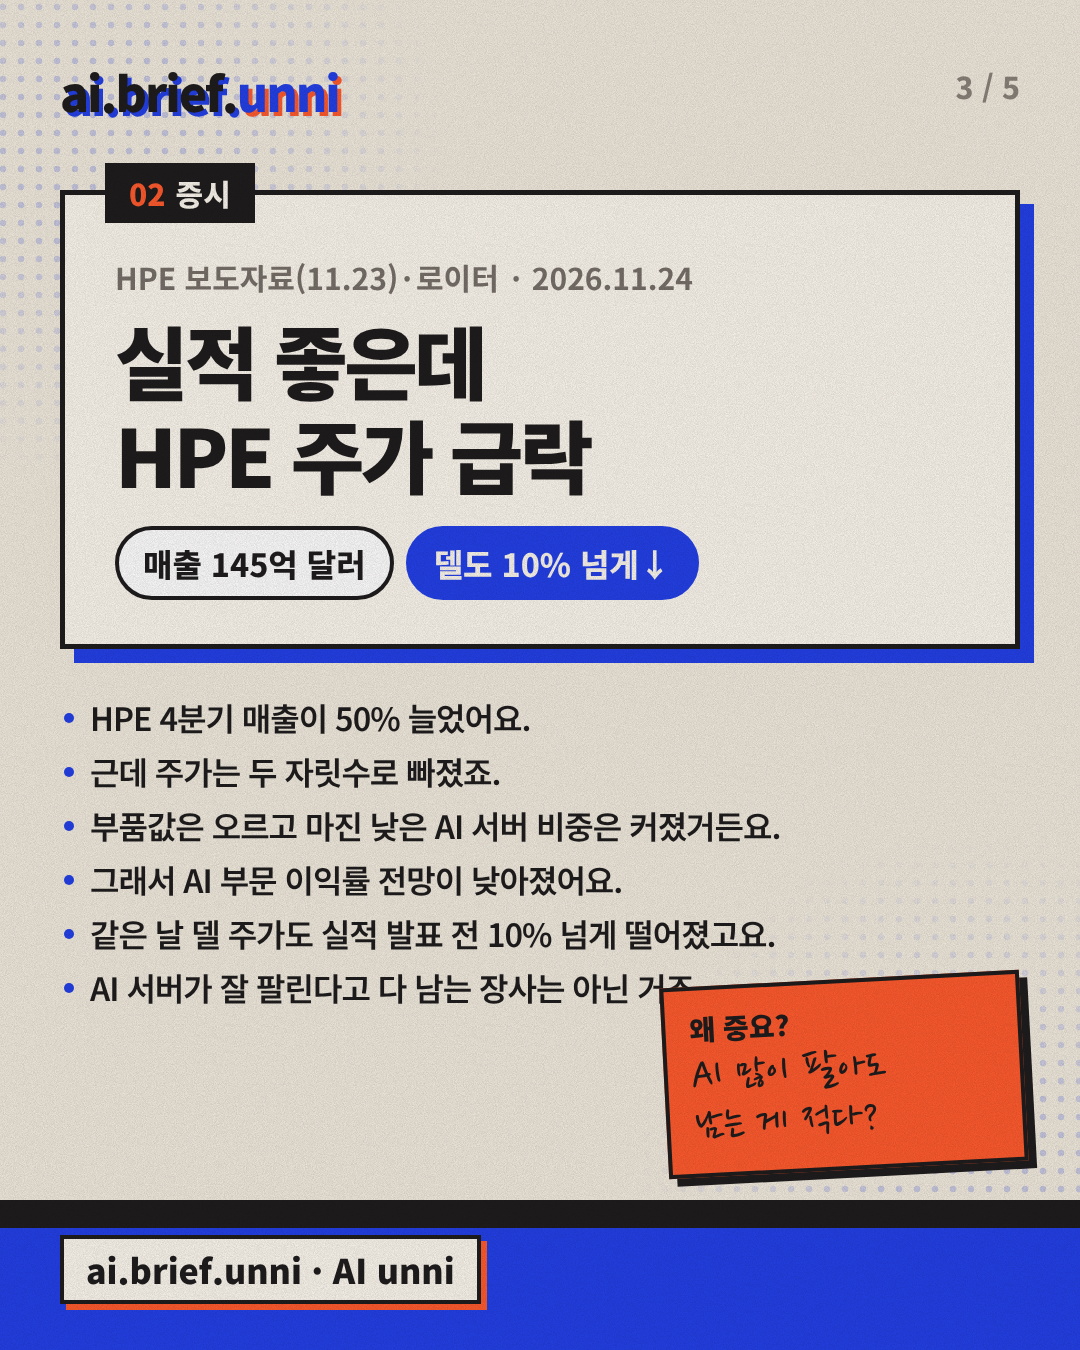
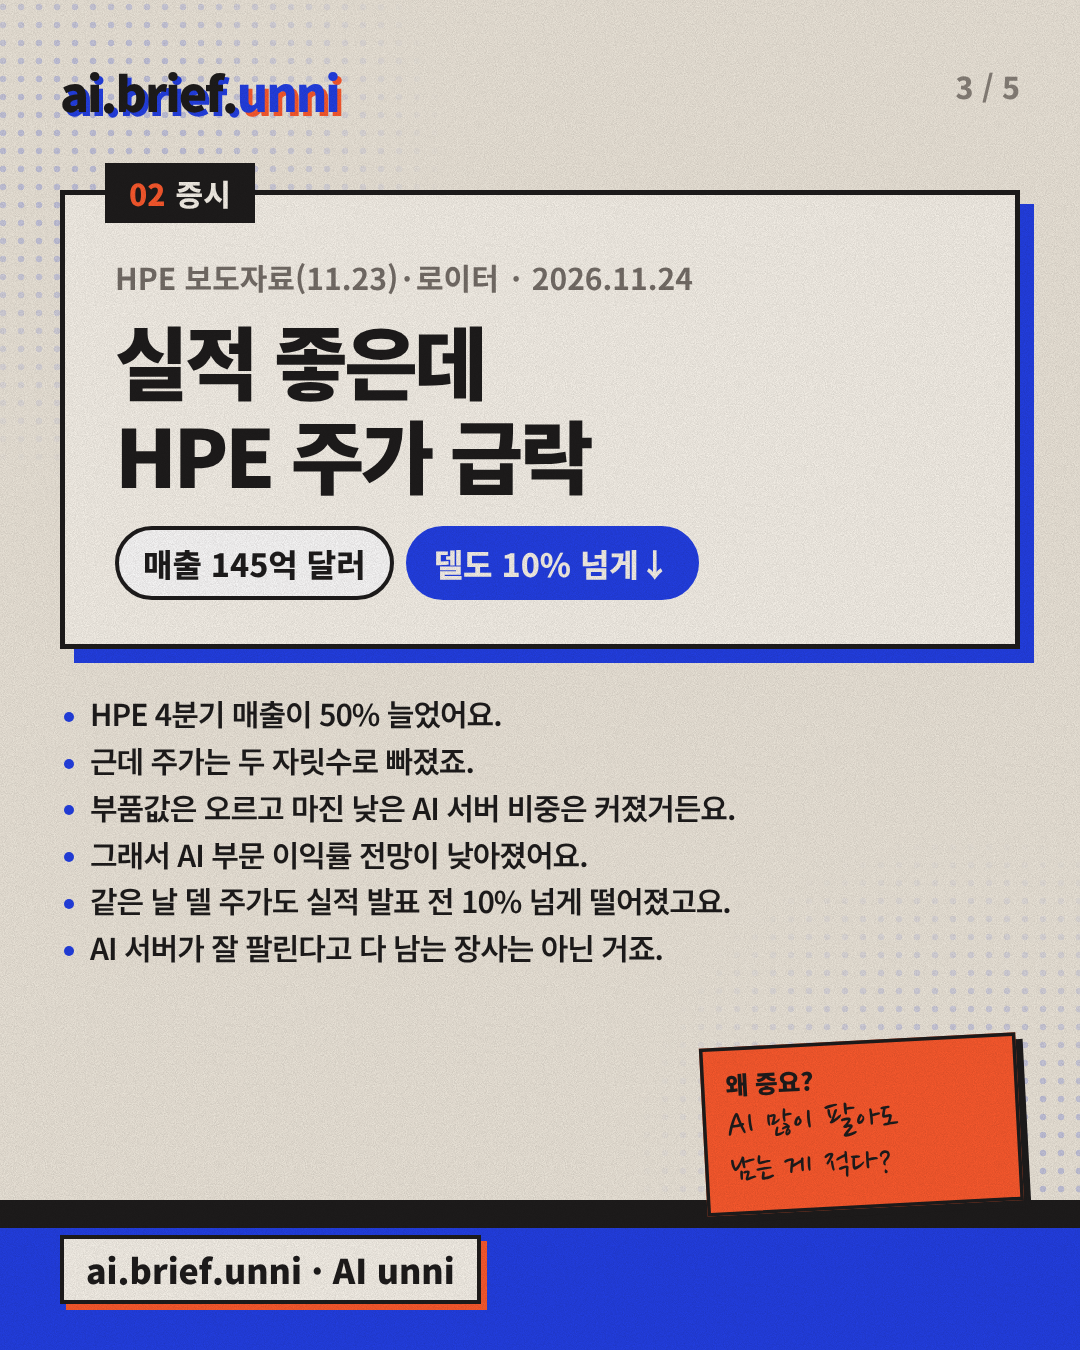
캐러셀: 본문·메모 겹침, CTA 버튼 가림 수정 [skip ci]
Claude-Session: https://claude.ai/code/session_019nZYiFyLASBmob3Xbrx6kJ

Changed region(s): [[0.0611, 0.4978, 0.9778, 0.9022]]

diff --git a/templates/carousel.html b/templates/carousel.html
@@ -128,8 +128,12 @@ window.build = async s => {
     const why = it.why ? el("why", `<small>왜 중요?</small><p>${esc(it.why).replace(/\n/g, "<br>")}</p>`, { bottom: "180px", right: "56px" }) : null;
     if (why) sl.appendChild(why);
     const limit = (why ? why.getBoundingClientRect().top : 1350 - 190) - sl.getBoundingClientRect().top - 24;
+    const over = () => body.getBoundingClientRect().bottom - sl.getBoundingClientRect().top > limit;
     let fs = 42;
-    while (fs > 32 && body.getBoundingClientRect().bottom - sl.getBoundingClientRect().top > limit) { fs -= 2; body.style.fontSize = fs + "px"; }
+    while (fs > 30 && over()) { fs -= 2; body.style.fontSize = fs + "px"; }
+    if (over()) body.style.lineHeight = "1.36";
+    // 그래도 넘치면 메모를 아래쪽 띠 위로 내려 본문과 겹치지 않게
+    if (why && over()) { why.style.bottom = "150px"; why.style.transform = "rotate(-3deg) scale(.88)"; why.style.transformOrigin = "right bottom"; }
   });
 
   // 마지막. 공유 유도
@@ -140,7 +144,11 @@ window.build = async s => {
   const icon = s.cta_icon === "follow"
     ? `<svg width="54" height="54" viewBox="0 0 24 24" fill="none" stroke="#FBF7EE" stroke-width="2.6" stroke-linecap="round"><circle cx="9" cy="8" r="4"/><path d="M2 21c0-4 3-6.5 7-6.5s7 2.5 7 6.5M19 8v6M16 11h6"/></svg>`
     : `<svg width="54" height="54" viewBox="0 0 24 24" fill="#FBF7EE"><path d="M2 11 22 2l-9 20-2.5-8.5L2 11Z"/></svg>`;
-  sl.appendChild(el("", `<div class="btn">${icon}${esc(s.cta_button || "DM으로 보내기")}</div>`, { top: (ctb + 50) + "px", left: "60px" }));
+  const bw = el("", `<div class="btn">${icon}${esc(s.cta_button || "DM으로 보내기")}</div>`, { top: (ctb + 50) + "px", left: "60px", zIndex: 9 });
+  sl.appendChild(bw);
+  // 버튼이 오른쪽 캐릭터에 가리지 않게 글자 크기를 줄여 폭을 맞춤
+  const btn = bw.firstElementChild; let bf = 50;
+  while (bf > 34 && btn.getBoundingClientRect().width > 620) { bf -= 2; btn.style.fontSize = bf + "px"; btn.style.padding = `${Math.round(bf * .56)}px ${Math.round(bf * .9)}px`; }
   sl.appendChild(el("save", "저장해두고 매일 아침 만나요", { top: (ctb + 220) + "px", left: "66px", transform: "rotate(-2deg)" }));
   character(sl, s.cta_pose || "thumbsup", "right", 470);
 
